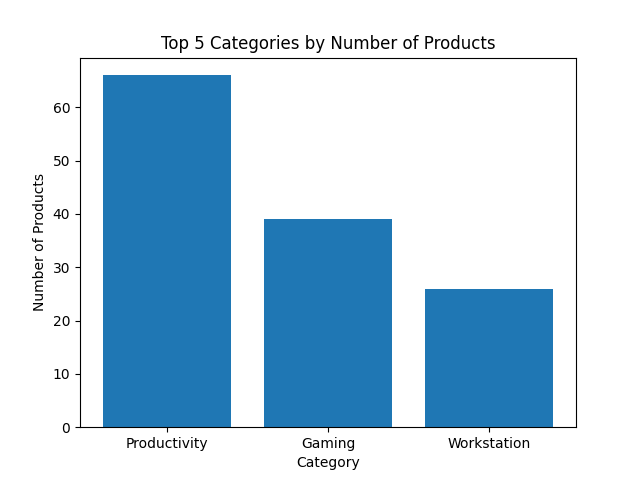
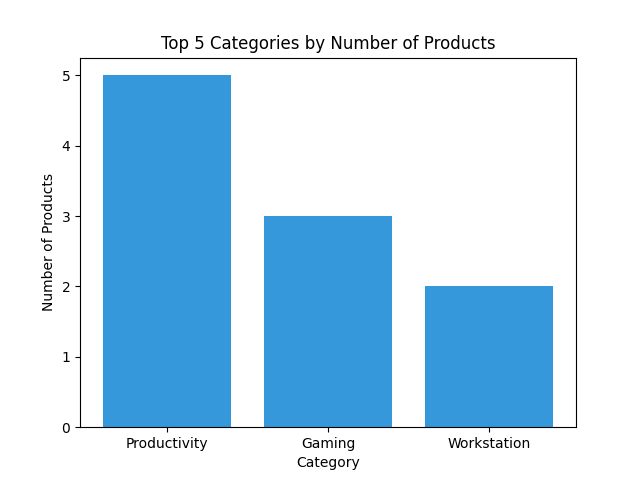
analytiques 4th commit

diff --git a/templates/base.html b/templates/base.html
@@ -150,7 +150,7 @@
                                 <i class="fs-4 bi bi-cart-fill lightblue"></i> <span class="ms-1 d-none d-sm-inline lightblue">Commandes</span></a>
                         </li>
                         <li>
-                            <a href="/product_share" class="nav-link px-0 align-middle">
+                            <a href="/analytics" class="nav-link px-0 align-middle">
                                 <i class="fs-4 bi-bar-chart-fill lightblue"></i> <span class="ms-1 d-none d-sm-inline lightblue">Données analytiques</span></a>
                         </li>
                     </ul>
@@ -159,15 +159,15 @@
                         <a href="#" class="d-flex align-items-center text-white text-decoration-none dropdown-toggle" id="dropdownUser1" data-bs-toggle="dropdown" aria-expanded="false">
                             <img src="/static/user.png" alt="hugenerd" width="30" height="30" class="rounded-circle">
                             <span class="d-none d-sm-inline mx-1">
-                                Profile</span>
+                                Profil</span>
                         </a>
                         <ul class="dropdown-menu dropdown-menu-dark text-small shadow" aria-labelledby="dropdownUser1">
-                            <li><a class="dropdown-item" href="#">Settings (en développement)</a></li>
-                            <li><a class="dropdown-item" href="#">Profile (en développement)</a></li>
+                            <li><a class="dropdown-item" href="#">Paramètres (en développement)</a></li>
+                            <li><a class="dropdown-item" href="#">Compte (en développement)</a></li>
                             <li>
                                 <hr class="dropdown-divider">
                             </li>
-                            <li><a class="dropdown-item" href="{{url_for('logout')}}">Logout</a></li>
+                            <li><a class="dropdown-item" href="{{url_for('logout')}}">Se déconnecter</a></li>
 
                             
                         </ul>

diff --git a/templates/product_list.html b/templates/product_list.html
@@ -3,7 +3,7 @@
 {% block title %}Products{% endblock %}
 
 {% block content %}
-<h2 class="text-white">Products</h2>
+<h2 class="text-white">Produits</h2>
 <br>
 
 <script>
@@ -21,6 +21,23 @@
             deleteBtn.style.display = 'none'; // Cacher bouton
         }
     }
+
+    function selectAllCheckboxes() {
+        var selectAllCheckbox = document.getElementById('selectAll');
+        var checkboxes = document.getElementsByName('product_ids');
+
+        if (selectAllCheckbox.checked) {
+            for (var i = 0; i < checkboxes.length; i++) {
+            checkboxes[i].checked = true;
+            }
+        } else {
+            for (var i = 0; i < checkboxes.length; i++) {
+            checkboxes[i].checked = false;
+            }
+        }
+    }
+
+
 </script>
 
 <!-- <a href="/enternew" class="btn btn-primary mb-3">Add New Product</a> -->
@@ -33,14 +50,14 @@
     <table id="datatable" class="table table-striped table-hover">
         <thead>
             <tr>
-                <th>Select</th>
+                <th><input type="checkbox" id="selectAll" onchange="selectAllCheckboxes(); toggleDeleteButton()"> &nbsp; Sélectionner</th>
                 <th>Id</th>
-                <th>Name</th>
+                <th>Nom</th>
                 <th>Type</th>
-                <th>Category</th>
-                <th>Brand</th>
-                <th>Price</th>
-                <th>Stock</th>
+                <th>Catégorie</th>
+                <th>Marque</th>
+                <th>Prix</th>
+                <th>Quantité en Stock</th>
                 <th>Description</th>
             </tr>
         </thead>
@@ -65,7 +82,7 @@
     <button type="submit" class="btn btn-danger delete-btn" id="deleteBtn" style="display: none;">Delete Selected Products</button>
 </form>
 
-<a href="/" class="buttons">Go to Home Page</a>
+<a href="/" class="buttons">Aller au tableau de bord</a>
 
 <!-- Formulaire Modal -->
 <div class="modal fade" id="exampleModal" tabindex="-1" aria-labelledby="exampleModalLabel" aria-hidden="true">

diff --git a/templates/analytics.html b/templates/analytics.html
@@ -1,15 +1,16 @@
 {% extends 'base.html' %}
 
-{% block title %}Products{% endblock %}
+{% block title %}Données analytiques{% endblock %}
 
 {% block content %}
-
+<h2 class="text-white">Donnés analytiques</h2>
+<br>
 <div class="row">
   <div class="col-md-4">
     <div class="card">
       <img src="{{ url_for('static', filename='product_share.png') }}" class="card-img-top" alt="Product Share by Brand">
       <div class="card-body">
-        <h5 class="card-title">Product Share by Brand</h5>
+        <h5 class="card-title">Partage de Produits par Marque</h5>
       </div>
     </div>
   </div>
@@ -17,7 +18,7 @@
     <div class="card">
       <img src="{{ url_for('static', filename='category_bar_chart.png') }}" class="card-img-top" alt="Top 5 Categories by Number of Products">
       <div class="card-body">
-        <h5 class="card-title">Top 5 Categories by Number of Products</h5>
+        <h5 class="card-title">Nombre de Produits pour Chaque Catégorie</h5>
       </div>
     </div>
   </div>
@@ -25,7 +26,7 @@
     <div class="card">
       <img src="{{ url_for('static', filename='price_histogram.png') }}" class="card-img-top" alt="Distribution of Product Prices">
       <div class="card-body">
-        <h5 class="card-title">Distribution of Product Prices</h5>
+        <h5 class="card-title">Répartition des Prix des Produits</h5>
       </div>
     </div>
   </div>

diff --git a/templates/customer_list.html b/templates/customer_list.html
@@ -4,7 +4,7 @@
 {% block title %}Customers{% endblock %}
 
 {% block content %}
-<h2 class="text-white">Customers</h2>
+<h2 class="text-white">Clients</h2>
 <br>
 
 <script>
@@ -27,17 +27,17 @@
 <!-- <a href="/enternew" class="btn btn-primary mb-3">Add New Product</a> -->
 
 <button type="button" class="buttons" data-bs-toggle="modal" data-bs-target="#exampleModal">
-    Add New Customer
+    Ajouter un nouveau client
   </button>
 
 <form method="POST" action="/delete_selected_customer" id="deleteForm">
     <table id="datatable" class="table table-striped table-hover">
         <thead>
             <tr>
-                <th>Select</th>
+                <th>Sélectionner</th>
                 <th>Id</th>
-                <th>First Name</th>
-                <th>Last Name</th>
+                <th>Prénom</th>
+                <th>Nom</th>
                 <th>Email</th>
             </tr>
         </thead>

diff --git a/app.py b/app.py
@@ -15,6 +15,7 @@ matplotlib.use('Agg')
 import matplotlib.pyplot as plt
 
 
+
 app = Flask(__name__)
 
 # Logique d'authentification
@@ -355,6 +356,10 @@ def customers_list():
 
 # Analytics
 
+# Définir les couleurs principales
+plt.style.use('default')
+plt.rcParams['axes.prop_cycle'] = plt.cycler('color', ['#3498db', '#8e44ad'])  # bleu et violet
+
 def generate_pie_chart():
     # Connect to the database
     conn = sqlite3.connect('inventory.db')
@@ -374,7 +379,7 @@ def generate_pie_chart():
     plt.title('Product Share by Brand')
 
     # Save the plot to a file
-    plt.savefig('static/product_share.png')
+    plt.savefig('static/product_share.png', transparent=True)
     plt.close()
 
 def generate_category_bar_chart():
@@ -397,7 +402,7 @@ def generate_category_bar_chart():
     plt.title('Top 5 Categories by Number of Products')
 
     # Save the plot to a file
-    plt.savefig('static/category_bar_chart.png')
+    plt.savefig('static/category_bar_chart.png', transparent=True)
     plt.close()
 
 def generate_price_histogram():
@@ -419,58 +424,22 @@ def generate_price_histogram():
     plt.title('Distribution of Product Prices')
 
     # Save the plot to a file
-    plt.savefig('static/price_histogram.png')
+    plt.savefig('static/price_histogram.png', transparent=True)
     plt.close()
 
-def generate_other_graphs():
+
+    
+    
+
+@app.route('/analytics')
+@login_required
+def product_share():
+    generate_pie_chart()  
     generate_category_bar_chart()
     generate_price_histogram()
-
-@app.route('/product_share')
-def product_share():
-    generate_pie_chart()  # Update the plot
-    generate_other_graphs()
-    return render_template('product_share.html')
+    return render_template('analytics.html')
 
 if __name__ == '__main__':
-
-    with sqlite3.connect('inventory.db') as conn:
-        cursor = conn.cursor()
-        cursor.execute('''
-        CREATE TABLE IF NOT EXISTS customers (
-        id INTEGER PRIMARY KEY AUTOINCREMENT,
-        first_name TEXT NOT NULL,
-        last_name TEXT NOT NULL,
-        email TEXT NOT NULL,
-        date_added TEXT NOT NULL DEFAULT CURRENT_DATE  
-        )
-        ''')
-
-        # List of 10 products
-    products = [
-        ("MacBook Pro", "Laptop", "Productivity", "Apple", 1999.99, 50, "High-performance laptop for professionals"),
-        ("Dell XPS 15", "Laptop", "Productivity", "Dell", 1499.99, 30, "Powerful and sleek laptop for work and entertainment"),
-        ("Alienware Aurora R12", "Desktop", "Gaming", "Dell", 1799.99, 20, "High-end gaming desktop with customizable RGB lighting"),
-        ("HP Envy 34", "Desktop", "Workstation", "HP", 1999.99, 15, "All-in-one desktop with a large curved display"),
-        ("Lenovo ThinkPad X1 Carbon", "Laptop", "Productivity", "Lenovo", 1399.99, 40, "Ultra-light business laptop with long battery life"),
-        ("ASUS ROG Zephyrus G14", "Laptop", "Gaming", "Asus", 1499.99, 25, "Compact and powerful gaming laptop"),
-        ("iMac 24-inch", "Desktop", "Productivity", "Apple", 1299.99, 35, "Colorful all-in-one desktop with M1 chip"),
-        ("Microsoft Surface Laptop 4", "Laptop", "Productivity", "Microsoft", 999.99, 45, "Sleek and versatile laptop with touchscreen"),
-        ("Acer Predator Helios 300", "Laptop", "Gaming", "Acer", 1199.99, 30, "Popular mid-range gaming laptop"),
-        ("HP Z4 G4", "Desktop", "Workstation", "HP", 2499.99, 10, "High-performance workstation for demanding tasks")
-    ]
-
-    # Connect to the database and insert products
-    with sqlite3.connect('inventory.db') as conn:
-        cursor = conn.cursor()
-        cursor.executemany('''
-        INSERT INTO products (name, type, category, brand, price, stock, description)
-        VALUES (?, ?, ?, ?, ?, ?, ?)
-        ''', products)
-        conn.commit()
-
-    print("10 products have been added to the database.")
-
     app.run(debug=True)
 
 

diff --git a/database_script.py b/database_script.py
@@ -90,5 +90,42 @@ new_user.add_user('inventory.db')
 
 
 
+# Ajout dans la base de données
 
 
+with sqlite3.connect('inventory.db') as conn:
+    cursor = conn.cursor()
+    cursor.execute('''
+    CREATE TABLE IF NOT EXISTS customers (
+    id INTEGER PRIMARY KEY AUTOINCREMENT,
+    first_name TEXT NOT NULL,
+    last_name TEXT NOT NULL,
+    email TEXT NOT NULL,
+    date_added TEXT NOT NULL DEFAULT CURRENT_DATE  
+    )
+    ''')
+
+    # List of 10 products
+products = [
+    ("MacBook Pro", "Laptop", "Productivity", "Apple", 1999.99, 50, "High-performance laptop for professionals"),
+    ("Dell XPS 15", "Laptop", "Productivity", "Dell", 1499.99, 30, "Powerful and sleek laptop for work and entertainment"),
+    ("Alienware Aurora R12", "Desktop", "Gaming", "Dell", 1799.99, 20, "High-end gaming desktop with customizable RGB lighting"),
+    ("HP Envy 34", "Desktop", "Workstation", "HP", 1999.99, 15, "All-in-one desktop with a large curved display"),
+    ("Lenovo ThinkPad X1 Carbon", "Laptop", "Productivity", "Lenovo", 1399.99, 40, "Ultra-light business laptop with long battery life"),
+    ("ASUS ROG Zephyrus G14", "Laptop", "Gaming", "Asus", 1499.99, 25, "Compact and powerful gaming laptop"),
+    ("iMac 24-inch", "Desktop", "Productivity", "Apple", 1299.99, 35, "Colorful all-in-one desktop with M1 chip"),
+    ("Microsoft Surface Laptop 4", "Laptop", "Productivity", "Microsoft", 999.99, 45, "Sleek and versatile laptop with touchscreen"),
+    ("Acer Predator Helios 300", "Laptop", "Gaming", "Acer", 1199.99, 30, "Popular mid-range gaming laptop"),
+    ("HP Z4 G4", "Desktop", "Workstation", "HP", 2499.99, 10, "High-performance workstation for demanding tasks")
+]
+
+# Connect to the database and insert products
+with sqlite3.connect('inventory.db') as conn:
+    cursor = conn.cursor()
+    cursor.executemany('''
+    INSERT INTO products (name, type, category, brand, price, stock, description)
+    VALUES (?, ?, ?, ?, ?, ?, ?)
+    ''', products)
+    conn.commit()
+
+print("10 products have been added to the database.")
